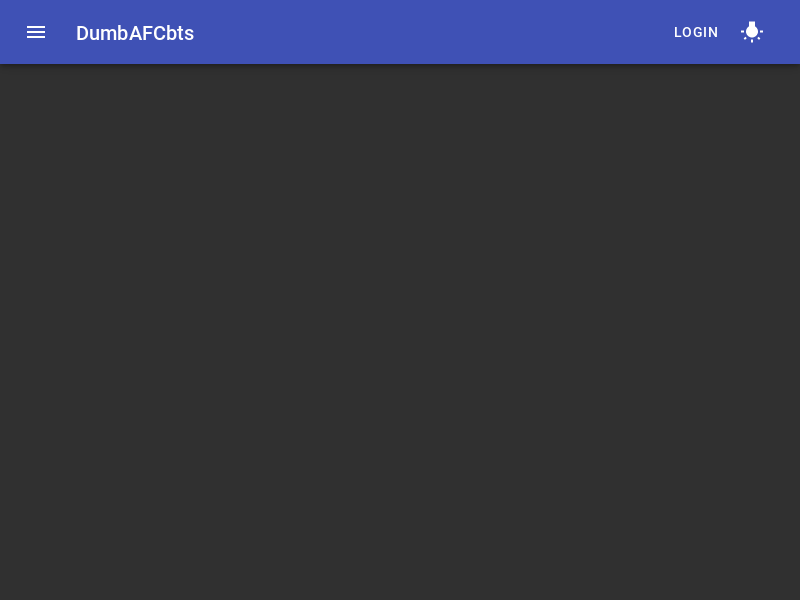
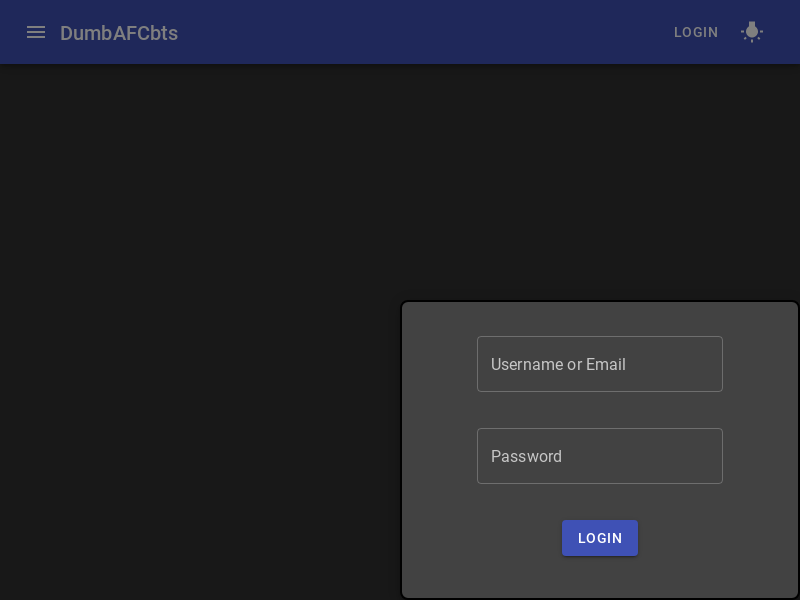
initial login implemented without any validation... todo: fix navbar test and acceptance testing to include updates

diff --git a/frontend/src/__tests__/NavBar.test.tsx b/frontend/src/__tests__/NavBar.test.tsx
@@ -1,33 +1,42 @@
 import React from 'react';
-import { NavBar } from '../components/NavBar';
-import { shallow } from 'enzyme';
-import { AppBar, Button } from '@material-ui/core';
+import { NavBar } from '../features/NavBar';
+import { mount } from 'enzyme';
+import { Typography } from '@material-ui/core';
 import { ThemeType } from '../resources/types';
 import LightbulbIcon from '../resources/icons/LightbulbIcon';
+import LoginModal from '../features/LoginModal';
+import { store } from '../store';
+import { Provider } from 'react-redux';
 import MenuIcon from '../resources/icons/MenuIcon';
 
 describe('NavBar unit tests', () => {
   const themeType = ThemeType.DARK;
   const toggleThemeSpy = jest.fn();
-  const wrapper = shallow(<NavBar themeType={themeType} toggleTheme={toggleThemeSpy}/>);
+  const wrapper = mount(
+    <Provider store={store}>
+      <NavBar themeType={themeType} toggleTheme={toggleThemeSpy}/>
+    </Provider>);
 
   it('should display a button to open the menu', () => {
     expect(wrapper.find(MenuIcon).exists()).toBeTruthy();
   });
 
   it('should display an AppBar w/ DumbAFCbts', () => {
-    expect(wrapper.find(AppBar).text()).toContain('DumbAFCbts');
+    expect(wrapper.find(Typography).text()).toContain('DumbAFCbts');
   });
 
-  it('should display a login button', () => {
-    expect(wrapper.find(Button).text()).toContain('Login');
+  it('should display a login button that displays a login window after clicking', () => {
+    expect(wrapper.find('.user--login-button').at(1).text()).toContain('LOGIN');
+    expect(wrapper.find('.user--login-button').at(1).simulate('click'));
+    wrapper.update();
+    expect(wrapper.find(LoginModal).exists()).toBeTruthy();
   });
 
   it('should display a button that toggles the theme on press', () => {
-    expect(wrapper.find('.themeToggle').exists()).toBeTruthy();
+    expect(wrapper.find('.theme-toggle--button').exists()).toBeTruthy();
     expect(wrapper.find(LightbulbIcon).exists()).toBeTruthy();
     expect(wrapper.find(LightbulbIcon).props().variant).toEqual(ThemeType.DARK);
-    wrapper.find('.themeToggle').simulate('click');
+    wrapper.find('.theme-toggle--button').simulate('click');
     expect(toggleThemeSpy).toHaveBeenCalled();
   });
 

diff --git a/frontend/src/features/NavBar.tsx b/frontend/src/features/NavBar.tsx
@@ -1,0 +1,54 @@
+import React from 'react';
+import { useDispatch, useSelector } from 'react-redux';
+import { RootState, ThemeType } from '../resources/types';
+import { useStyles } from '../resources/theme';
+import { AuthStep, signOut, signInStart } from '../store/reducer/slices/authSlice';
+import { AppBar, Button, IconButton, Toolbar, Typography } from '@material-ui/core';
+import MenuIcon from '../resources/icons/MenuIcon';
+import LightbulbIcon from '../resources/icons/LightbulbIcon';
+
+interface MyProps {
+  themeType: ThemeType;
+  toggleTheme: () => void;
+}
+
+export const NavBar: React.FC<MyProps> = (props) => {
+  const { authStep, user } = useSelector(
+    (state: RootState) => state.auth,
+  );
+
+  const classes = useStyles();
+  const dispatch = useDispatch();
+
+  const isLoggedIn = authStep === AuthStep.LOGGED_IN;
+
+  return (
+    <div className={classes.root}>
+      <AppBar position="static">
+        <Toolbar>
+          <IconButton edge="start" className={classes.menuButton} color="inherit" aria-label="menu">
+            <MenuIcon/>
+          </IconButton>
+          <Typography variant="h6" className={classes.title}>
+            DumbAFCbts
+          </Typography>
+          {isLoggedIn ?
+           <div className={'user-info--wrapper'}>
+             <Button className={'user-info--username'} color="inherit">{user.userName}</Button>
+             <Button className={'user--logout-button'} color='inherit'
+                     onClick={() => dispatch(signOut())}>LOGOUT</Button>
+           </div>
+                      :
+           <Button className={'user--login-button'} color="inherit"
+                   onClick={() => dispatch(signInStart())}>LOGIN</Button>
+          }
+          <div className={'theme-toggle--button'} onClick={props.toggleTheme}>
+            <IconButton color="inherit">
+              <LightbulbIcon variant={props.themeType}/>
+            </IconButton>
+          </div>
+        </Toolbar>
+      </AppBar>
+    </div>
+  );
+};

diff --git a/frontend/src/app/App.tsx b/frontend/src/app/App.tsx
@@ -1,10 +1,12 @@
 import React from 'react';
-import { createMuiTheme, CssBaseline, responsiveFontSizes, ThemeProvider } from '@material-ui/core';
-import { NavBar } from '../components/NavBar';
+import { createMuiTheme, CssBaseline, ThemeProvider } from '@material-ui/core';
+import { NavBar } from '../features/NavBar';
 import { useDispatch, useSelector } from 'react-redux';
 import { toggleThemeType } from '../store/reducer/slices/themeSlice';
 import { fetchAllCbts } from '../store/actions';
 import { RootState } from '../resources/types';
+import { AuthStep } from '../store/reducer/slices/authSlice';
+import LoginModal from '../features/LoginModal';
 
 const App: React.FC = () => {
   const dispatch = useDispatch();
@@ -17,27 +19,32 @@ const App: React.FC = () => {
     (state: RootState) => state.theme,
   );
 
-  const { cbts, error, loading } = useSelector(
-    (state: RootState) => state.cbts,
+  const { authStep } = useSelector(
+    (state: RootState) => state.auth,
   );
 
-  const theme = createMuiTheme({
+  const muiTheme = createMuiTheme({
     palette: {
       type: themeType,
     },
   });
 
-  const muiTheme = responsiveFontSizes(theme);
+  const { cbts, error, loading } = useSelector(
+    (state: RootState) => state.cbts,
+  );
 
   const toggleTheme = () => {
     dispatch(toggleThemeType());
   };
+
+  const isLoggingIn = authStep === AuthStep.LOGGING_IN;
 
   return (
     <ThemeProvider theme={muiTheme}>
       <CssBaseline/>
       <div className="App">
         <NavBar themeType={themeType} toggleTheme={toggleTheme}/>
+        <LoginModal display={isLoggingIn}/>
       </div>
     </ThemeProvider>
   );

diff --git a/frontend/src/features/LoginModal.tsx b/frontend/src/features/LoginModal.tsx
@@ -1,0 +1,39 @@
+import React from 'react';
+import { useStyles } from '../resources/theme';
+import { useDispatch } from 'react-redux';
+import { Button, Modal, TextField } from '@material-ui/core';
+import { resetSignIn, signInSuccess } from '../store/reducer/slices/authSlice';
+import classNames from 'classnames';
+
+
+interface MyProps {
+  display: boolean;
+}
+
+const LoginModal: React.FC<MyProps> = (props) => {
+  const classes = useStyles();
+  const dispatch = useDispatch();
+
+  return (
+    <Modal
+      open={props.display}
+      onClose={() => dispatch(resetSignIn())}
+      style={{ top: '50%', left: '50%' }}
+    >
+      <div className={classNames(classes.modalBody, classes.paper, 'login--modal')}>
+        <div className={'modal-text'}>
+          <TextField id="username-email--input" label="Username or Email" variant="outlined"/>
+        </div>
+        <div className={'modal-text'}>
+          <TextField id="password--input" label="Password" type="password" variant="outlined"/>
+        </div>
+        <Button variant="contained" color="primary"
+                onClick={() => dispatch(signInSuccess({ userName: 'Billy', token: 'is logged in' }))}>
+          Login
+        </Button>
+      </div>
+    </Modal>
+  );
+};
+
+export default LoginModal;

diff --git a/frontend/src/resources/theme/styles.ts b/frontend/src/resources/theme/styles.ts
@@ -17,5 +17,26 @@ export const useStyles = makeStyles((theme: Theme) =>
     title: {
       flexGrow: 1,
     },
+    paper: {
+      position: 'absolute',
+      width: 400,
+      backgroundColor: theme.palette.background.paper,
+      border: '2px solid #000',
+      boxShadow: theme.shadows[5],
+      padding: theme.spacing(2, 4, 3),
+    },
+    modalBody: {
+      height: '100%',
+      display: 'flex',
+      flexDirection: 'column',
+      justifyContent: 'space-around',
+      alignItems: 'center',
+      textAlign: 'center',
+      outline: 'none',
+      borderRadius: 8,
+      borderWidth: 2,
+      borderStyle: 'solid',
+    },
+
   }),
 );

diff --git a/frontend/src/store/reducer/slices/authSlice.ts b/frontend/src/store/reducer/slices/authSlice.ts
@@ -61,10 +61,14 @@ const authSlice = createSlice({
       state.user = InitUserState;
       state.error = null;
     },
+
+    resetSignIn(state) {
+      state.authStep = AuthStep.INIT_STATE;
+    },
   },
 });
 
-export const { signInStart, signInSuccess, signInFailure, signOut } = authSlice.actions;
+export const { signInStart, signInSuccess, signInFailure, signOut, resetSignIn } = authSlice.actions;
 
 export default authSlice.reducer;
 

diff --git a/frontend/src/__tests__/App.test.tsx b/frontend/src/__tests__/App.test.tsx
@@ -1,7 +1,7 @@
 import React from 'react';
 import App from '../app/App';
 import { mount } from 'enzyme';
-import { NavBar } from '../components/NavBar';
+import { NavBar } from '../features/NavBar';
 import { Provider } from 'react-redux';
 import { store } from '../store';
 
